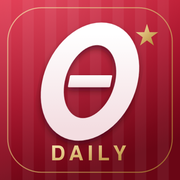
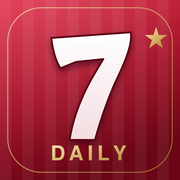
Εικονίδιο εφαρμογής: στυλιζαρισμένο 7 (Gate 7) αντί για Θ
Claude-Session: https://claude.ai/code/session_01BE28NuiU839gujPCXEFcvf

Changed region(s): [[0.1944, 0.1111, 0.9444, 0.8056]]

diff --git a/sw.js b/sw.js
@@ -1,4 +1,4 @@
-const C="thr-v54",SH=["./","manifest.webmanifest","icons/icon-180.png","icons/icon-192.png","icons/icon-512.png","assets/gate7.jpg","assets/oly-football.jpg","assets/oly-basketball.jpg","assets/oly-amateur.png","assets/ball-football.png","assets/ball-basketball.png","assets/ball-polo.png","assets/ball-volleyball.png","assets/ball-handball.png"];
+const C="thr-v55",SH=["./","manifest.webmanifest","icons/icon-180.png","icons/icon-192.png","icons/icon-512.png","assets/gate7.jpg","assets/oly-football.jpg","assets/oly-basketball.jpg","assets/oly-amateur.png","assets/ball-football.png","assets/ball-basketball.png","assets/ball-polo.png","assets/ball-volleyball.png","assets/ball-handball.png"];
 self.addEventListener("install",e=>{e.waitUntil(caches.open(C).then(c=>c.addAll(SH)).then(()=>self.skipWaiting()))});
 self.addEventListener("activate",e=>{e.waitUntil(caches.keys().then(k=>Promise.all(k.filter(x=>x!==C).map(x=>caches.delete(x)))).then(()=>self.clients.claim()))});
 self.addEventListener("fetch",e=>{const r=e.request;if(r.method!=="GET")return;const u=new URL(r.url);if(u.origin!==location.origin)return;
